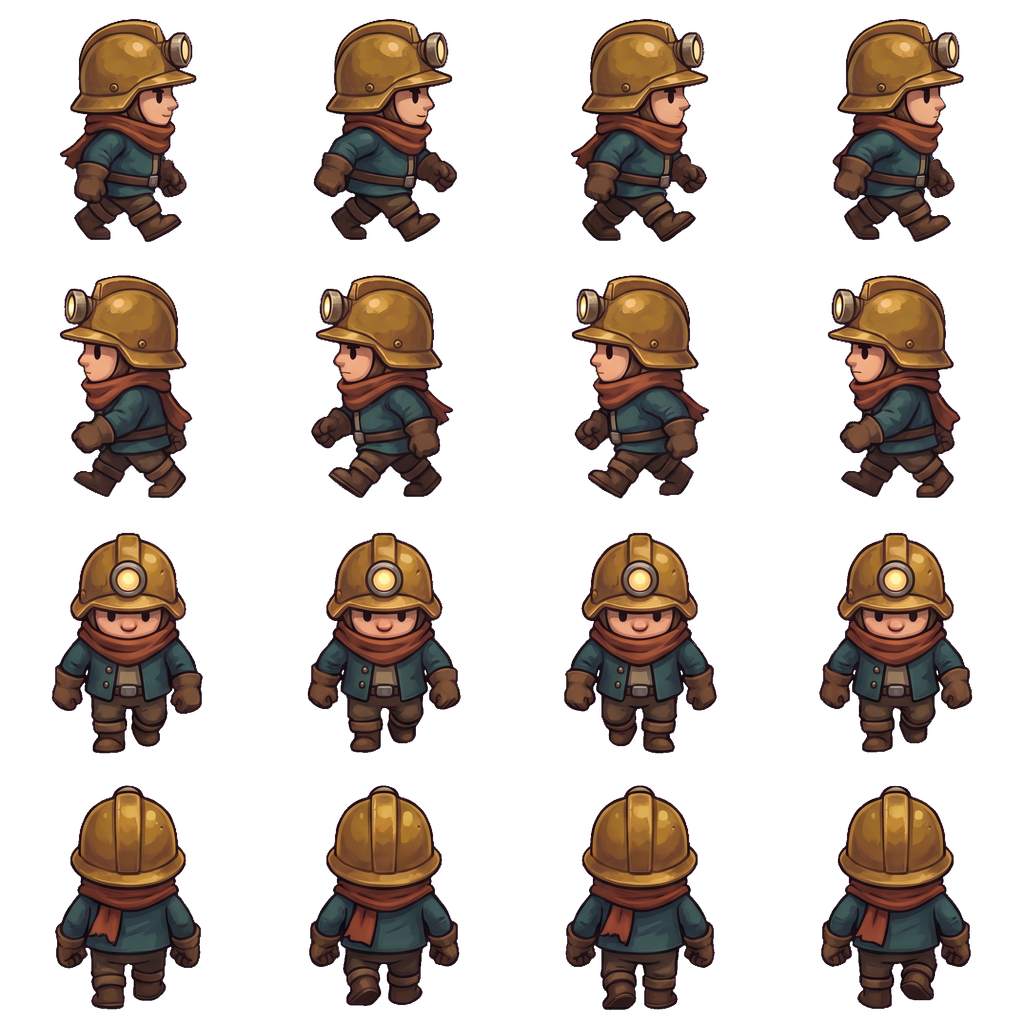
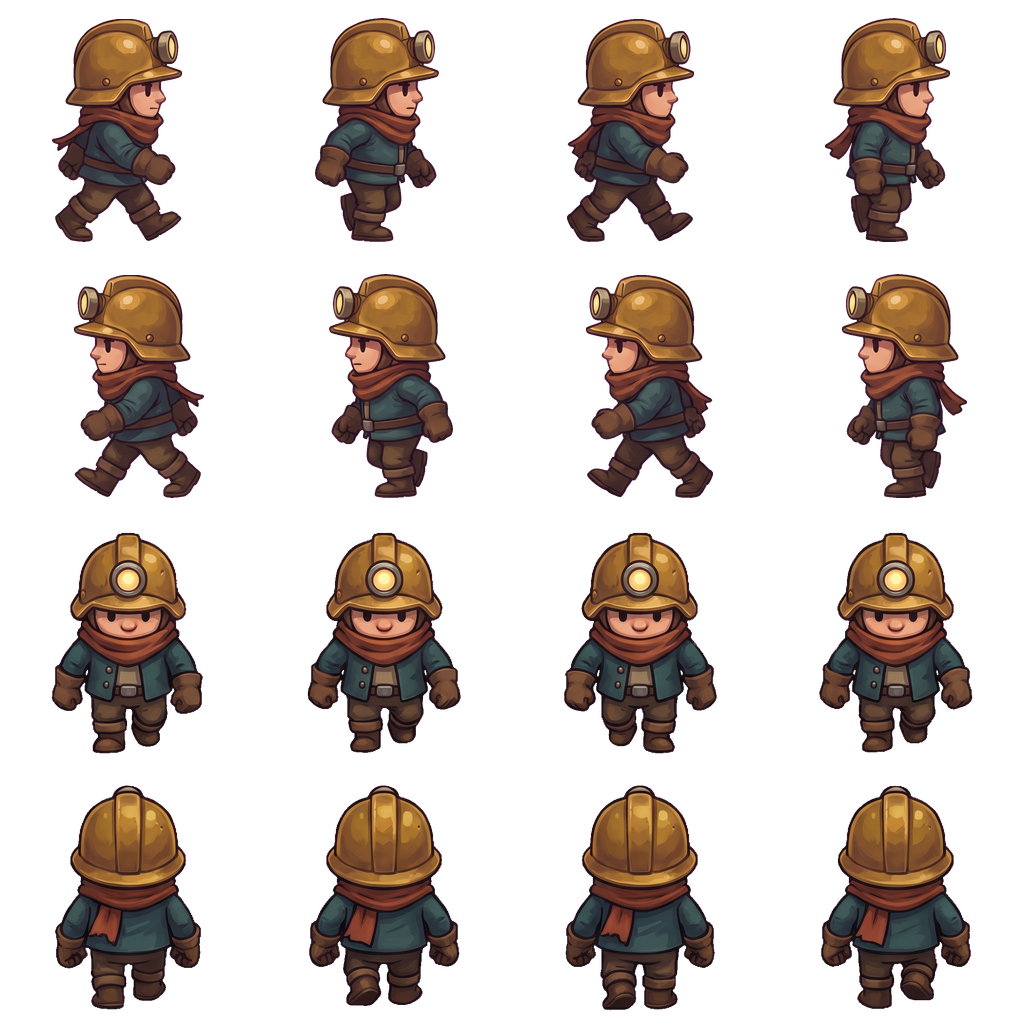
Use selected miner walk A for side-facing animation

diff --git a/src/i18n.ts b/src/i18n.ts
@@ -5,7 +5,7 @@ const english:Record<string,string>={
  'Wertung: Smaragd 1, Diamant 3 Punkte. Schieferkrabbler: 5 Punkte für Zerquetschen oder sicheres Einsperren am Ende. Kristallkrabbler: 10 Punkte für die Umwandlung; sein Diamant zählt beim Einsammeln weitere 3. Gegnerpunkte öffnen keinen Ausgang. Die Zeit entscheidet zuerst, bei Gleichstand die Punktzahl.':'Scoring: emerald 1, diamond 3 points. Slate crawler: 5 points for crushing it or leaving it safely trapped at the end. Crystal crawler: 10 points for transmutation, plus 3 when you collect its diamond. Enemy points do not open exits. Time ranks first, then score breaks a tie.',
  '† Ältere lokale Werte enthalten nur Kristallpunkte. Neue Durchläufe und die Online-Wiederherstellung ergänzen die Gegnerwertung.':'† Older local records contain crystal points only. New runs and online profile recovery include enemy points.',
  'Spielfeld':'Cave','Touchsteuerung':'Touch controls','Nach oben':'Move up','Nach unten':'Move down','Nach links':'Move left','Nach rechts':'Move right','Nebenan graben: halten und Richtung drücken':'Dig beside you: hold and press a direction','Graben':'Dig','halten + Richtung':'hold + direction',
- '/ DIE ALTE MINE':'/ THE OLD MINE','DIE ALTE MINE':'THE OLD MINE','EIN ABENTEUER IN LATHMAR':'AN ADVENTURE IN LATHMAR','Jeder Stein hat sein Gewicht.':'Every stone has weight.','Jeder Schritt seine Folgen.':'Every step has consequences.','Grabe dich durch die alte Mine. Sammle ihre Kristalle.':'Dig through the old mine. Collect its crystals.','Und finde einen Weg zurück ans Licht.':'And find a way back to the light.','Abenteuer fortsetzen':'Continue adventure','In die Mine':'Enter the mine','Die zehn Höhlen':'The ten caves','Einstellungen':'Settings','So wird gespielt':'How to play','Neues Spiel':'New game','Profil & Sicherung':'Profile & backup','Bestzeiten':'Best times','Die Mine wird vorbereitet …':'Preparing the mine …','Ein Höhlenrätsel mit Amiga-Seele.':'A cave puzzle with an Amiga soul.','ZEHN HÖHLEN. EIN ABENTEUER.':'TEN CAVES. ONE ADVENTURE.','DEMO 0.5.1 · GRAFIK & AUDIO MIT RUNWAY ·':'DEMO 0.5.1 · ART & AUDIO WITH RUNWAY ·','PROJEKT':'PROJECT',
+ '/ DIE ALTE MINE':'/ THE OLD MINE','DIE ALTE MINE':'THE OLD MINE','EIN ABENTEUER IN LATHMAR':'AN ADVENTURE IN LATHMAR','Jeder Stein hat sein Gewicht.':'Every stone has weight.','Jeder Schritt seine Folgen.':'Every step has consequences.','Grabe dich durch die alte Mine. Sammle ihre Kristalle.':'Dig through the old mine. Collect its crystals.','Und finde einen Weg zurück ans Licht.':'And find a way back to the light.','Abenteuer fortsetzen':'Continue adventure','In die Mine':'Enter the mine','Die zehn Höhlen':'The ten caves','Einstellungen':'Settings','So wird gespielt':'How to play','Neues Spiel':'New game','Profil & Sicherung':'Profile & backup','Bestzeiten':'Best times','Die Mine wird vorbereitet …':'Preparing the mine …','Ein Höhlenrätsel mit Amiga-Seele.':'A cave puzzle with an Amiga soul.','ZEHN HÖHLEN. EIN ABENTEUER.':'TEN CAVES. ONE ADVENTURE.','DEMO 0.5.2 · GRAFIK & AUDIO MIT RUNWAY ·':'DEMO 0.5.2 · ART & AUDIO WITH RUNWAY ·','PROJEKT':'PROJECT',
  'DEIN WEG DURCH DEN BERG':'YOUR WAY THROUGH THE MOUNTAIN','← Zurück':'← Back','Zurück':'Back','Übungsmodus ohne Zeitlimit':'Practice without a time limit','Erfolge öffnen die nächste Höhle. Übungszeiten und Normalspiel bleiben getrennt.':'Completing a cave unlocks the next. Practice and timed records stay separate.','Ohne Zeitlimit':'No time limit','Noch unerforscht':'Unexplored','Erst die vorherige Höhle abschließen':'Complete the previous cave first','Erkunden':'Explore','Lösung ansehen':'Watch solution','Karte überarbeitet · neu entdecken':'Revised cave · explore it again',
  'DEIN ABENTEUER BLEIBT ERHALTEN':'KEEP YOUR ADVENTURE SAFE','Dein Name':'Your name','Spielername':'Player name','Zum Beispiel: Minenwanderer':'For example: Cave Wanderer','2–24 Zeichen: Buchstaben, Zahlen, Leerzeichen, _ und -. Keine E-Mail nötig. Dein Name und bestätigte Zeiten sind in der öffentlichen Rangliste sichtbar, sobald du ein Online-Profil anlegst.':'Use 2–24 characters: letters, numbers, spaces, _ and -. No email required. Once you create an online profile, your name and verified times are visible on the public leaderboard.','Namen speichern':'Save name','Online-Profil anlegen':'Create online profile','Wiederherstellungscode':'Recovery code','Jetzt abgleichen':'Sync now','Dein geheimer Wiederherstellungscode':'Your secret recovery code','Bewahre ihn privat auf. Wer diesen Code besitzt, kann dein Profil verwenden.':'Keep this private. Anyone with this code can use your profile.','Code als Datei sichern':'Save code to file','Sicher ist sicher':'Keep a backup','Das Spiel speichert automatisch und hält eine zweite lokale Kopie bereit. Exportiere zusätzlich eine Datei, bevor du Browserdaten löschst oder das Gerät wechselst.':'The game saves automatically and keeps a second local copy. Export a backup file before clearing browser data or moving to another device.','Spielstand exportieren':'Export save','Sicherung importieren':'Import backup','Importe übernehmen persönliche Erfolge, aber keine öffentlichen Rekorde. Online-Profile und Codes bleiben getrennt.':'Imports restore personal progress, but do not submit public records. Online profiles and recovery codes stay separate.','Profil wiederherstellen':'Recover profile','ID.geheimer-Code':'ID.secret-code','Profil laden':'Recover profile','Auf den Home-Bildschirm':'Add to your home screen','Android: im Browsermenü „App installieren“ oder „Zum Startbildschirm“. iPhone/iPad: Teilen → „Zum Home-Bildschirm“.':'Android: choose “Install app” or “Add to home screen” in the browser menu. iPhone/iPad: Share → “Add to Home Screen”.','Nach der ersten vollständigen Installation sind alle zehn Höhlen offline spielbar. Bestzeiten werden beim nächsten Online-Start abgeglichen. Updates werden nach dem Schließen aller Spielfenster übernommen.':'After the first full download, all ten caves can be played offline. Best times sync at the next online start. Updates take effect after you close all game windows.',
  'Höhle':'Cave','Platz':'Rank','Name':'Name','Zeit':'Time','Die kürzere Zeit gewinnt. Bei gleicher Zeit entscheidet die höhere Punktzahl; stimmen beide überein, teilen sich die Spieler den Platz. Übung, Lösungswiedergaben und importierte Bestzeiten zählen nicht.':'Faster times rank first. At equal time, the higher score wins. Equal time and score share a rank. Practice, solution replays and imported records do not count.',

diff --git a/artifacts/miner-walk-review/index.html b/artifacts/miner-walk-review/index.html
@@ -26,13 +26,13 @@
 </div>
 <div class="note"><strong>Worauf achten?</strong> Ist der Schritt schon oben in kleiner Darstellung erkennbar? Wirkt B zu hüpfend? Passt A besser zur Hackenanimation? Mit „Einzelbild weiter“ kannst du die Posen prüfen. Die neuen Kontaktposen 1 und 3 ähneln sich noch stark; dies sind Entwürfe, keine fertige anatomisch saubere Schrittfolge.</div>
 <p class="muted">Die optionale Fahrt zeigt die bisherige Spielgeschwindigkeit: 64 Pixel pro 100 ms. Die Gänge hier sind nur eine Darstellung, keine neue Spielsimulation. Links werden die neuen Entwürfe gespiegelt; Vorder- und Rückansicht werden nach der Auswahl separat entworfen.</p>
-<p class="foot">Neue Grafiken: Runway · 20 Credits für beide Entwürfe zusammen · Projektstand 180 / 1.000 Credits. Die öffentlichen Spielgrafiken wurden nicht ersetzt. <a href="../../docs/KAPITEL-2-MECHANIKEN.md">Notizen zu Käfern und Steinspender</a></p>
+<p class="foot">Neue Grafiken: Runway · 20 Credits für beide Entwürfe zusammen · Projektstand 180 / 1.000 Credits. Entwurf A wurde ausgewählt und wird ab Version 0.5.2 für die seitlichen Laufposen verwendet. <a href="../../docs/KAPITEL-2-MECHANIKEN.md">Notizen zu Käfern und Steinspender</a></p>
 <script>
 const canvases=[...document.querySelectorAll('canvas')];
 const controls={speed:document.querySelector('#speed'),direction:document.querySelector('#direction'),travel:document.querySelector('#travel'),play:document.querySelector('#play'),step:document.querySelector('#step')};
 const reduced=matchMedia('(prefers-reduced-motion: reduce)').matches;
 let playing=!reduced,phase=0,travel=0,last=performance.now(),ready=false;
-const sources={old:'../../public/assets/hero.png',a:'walk-a.png',b:'walk-b.png',dig:'../../public/assets/digging.png'};
+const sources={old:'original-hero.png',a:'walk-a.png',b:'walk-b.png',dig:'../../public/assets/digging.png'};
 const images={};
 function playLabel(){controls.play.textContent=playing?'Pause':'Abspielen';}
 playLabel();

diff --git a/src/main.ts b/src/main.ts
@@ -39,7 +39,7 @@ function resize():void{if(ready&&stage.clientWidth&&stage.clientHeight)scene.res
 window.addEventListener('resize',resize);
 function button(action:string,label:string,classes='',extra=''):string{return `<button class="${classes}" data-action="${action}" ${extra}>${label}</button>`;}
 function brand():string{return '<div class="eyebrow"><span class="gem-mark"></span> LATHMAR: EMERALD HOLLOWS <span class="muted">/ DIE ALTE MINE</span></div>';}
-function footer():string{return '<footer><div class="footer-campaign"><span>ZEHN HÖHLEN. EIN ABENTEUER.</span><small>Geplante Vollversion: 120 Level · 100 Hauptlevel + 20 Geheimlevel</small></div><span class="footer-production">DEMO 0.5.1 · GRAFIK & AUDIO MIT RUNWAY · <a href="https://github.com/michaelingokahler-mordor/Emerald-Hollows" target="_blank" rel="noopener">PROJEKT</a></span></footer>';}
+function footer():string{return '<footer><div class="footer-campaign"><span>ZEHN HÖHLEN. EIN ABENTEUER.</span><small>Geplante Vollversion: 120 Level · 100 Hauptlevel + 20 Geheimlevel</small></div><span class="footer-production">DEMO 0.5.2 · GRAFIK & AUDIO MIT RUNWAY · <a href="https://github.com/michaelingokahler-mordor/Emerald-Hollows" target="_blank" rel="noopener">PROJEKT</a></span></footer>';}
 function start(i:number,solution?:Replay):void{
   if(!ready||!LEVELS[i]||!unlocked().has(LEVELS[i].id))return;index=i;replay=solution;replayCursor=0;
   simulation=new Simulation(LEVELS[i],solution?false:save.practice);

diff --git a/README.md b/README.md
@@ -84,10 +84,10 @@ The project uses strict TypeScript, Phaser 4.2.1, Vite, and Vitest with pinned d
 | `artifacts` | Runway source assets and production records |
 | `tools` | Asset processing, packaging, and verification scripts |
 
-### Current presentation update — 0.5.1
+### Current presentation update — 0.5.2
 
 A green-and-red pseudodragon accompanies objectives and hints. The title screen has a more readable footer and identifies the planned 120-level full game. Walking and digging poses now change every **240 ms**, giving a four-pose cycle of **0.96 seconds**. Movement and simulation retain their 100 ms tick, so this visual change does not alter routes or records.
 
-The previous 180 ms setting was an initial design choice, not a measured ideal. The existing side-facing sprites have weak leg differences; slower playback alone does not turn them into a clearly articulated walk cycle. Improved poses remain a possible art refinement.
+The previous 180 ms setting was an initial design choice, not a measured ideal. Version 0.5.2 uses the selected walk variant A for the right-facing poses and mirrors it for the left-facing poses. The new frames alternate between an extended and a bent leg silhouette. Front/back poses and the pickaxe animation are unchanged; the two contact poses still look similar and may receive further refinement.
 
 See the [validation report (German)](docs/PRUEFBERICHT.md) for completed checks and their limits, including the distinction between browser emulation and physical mobile-device testing. The [leaderboard protection notes (German)](docs/RANGLISTENSCHUTZ.md) document optional future measures.

diff --git a/docs/MEDIEN.md b/docs/MEDIEN.md
@@ -65,3 +65,9 @@ Zwei seitliche Laufentwürfe wurden als gemeinsamer 4×2-Spritebogen mit dem vor
 - Browserprüfung mit `tools/browser-miner-review.js`: Bilder geladen, Pause, Einzelbild, Geschwindigkeit, Richtungswechsel, Bewegungsvorschau; 64-Pixel-Darstellung bei Canvasbreite 256; keine horizontale Überbreite bei 390 × 844; reduzierte Bewegung startet pausiert. Screenshots liegen unter `output/playwright/miner-review-*.png`.
 
 Öffentliche Spielgrafiken, Hackenanimation, Bewegungstempo und Replays sind unverändert. Die Auswahl und das subjektive Bewegungsgefühl werden mit dem Nutzer beurteilt; eine neue vollständige Spielprüfung war für diese getrennte Vorschau nicht erforderlich.
+
+## Auswahl und Integration 0.5.2
+
+Der Nutzer hat Entwurf A ausgewählt. Seine vier seitlichen Laufposen werden rechts unverändert und links jeweils gespiegelt verwendet. Die Bilddauer bleibt 240 ms. Vorder- und Rückansicht bleiben aus dem bisherigen Miner-Spritebogen erhalten; die Hackenanimation bleibt bytegleich. Die ursprüngliche Grafik ist zusätzlich als `artifacts/miner-walk-review/original-hero.png` für den Vergleich gesichert.
+
+`tools/prepare-selected-miner.mjs` setzt die ausgewählte Folge in den Spielatlas ein und wird auch am Ende von `npm run assets` aufgerufen. Dabei werden RGBA-Pixel direkt kopiert, sodass transparente Ränder und die bewahrten Ansichten keine Rundungsänderungen durch erneute Alpha-Komposition erhalten. Nachweis: `artifacts/miner-selected-verification.json`. Keine neue Generierung, weiterhin 180 / 1.000 Runway-Credits.

diff --git a/docs/ENTWICKLUNGSPLAN.md b/docs/ENTWICKLUNGSPLAN.md
@@ -50,7 +50,7 @@ Musik erhält Kapitelthemen und eine dezente Gefahrenschicht. Die Demo verwendet
 
 ## Kosten und nächste Abnahmen
 
-Runway-Obergrenze bleibt 1.000 Credits inklusive Fehlversuchen. Bisher 180: ursprüngliche Medien 115, Musikrunde 24 einschließlich einer nicht herunterladbaren Ersatzproduktion, Pseudodrache 21, zwei neue seitliche Laufproben 20. Für 0.5.1 selbst wurden keine Medien generiert; die Laufproben entstanden danach und sind noch nicht im Spiel integriert. Kein automatischer bezahlter Hostingwechsel. Workers Free wurde am 18.10.2026 im Konto bestätigt.
+Runway-Obergrenze bleibt 1.000 Credits inklusive Fehlversuchen. Bisher 180: ursprüngliche Medien 115, Musikrunde 24 einschließlich einer nicht herunterladbaren Ersatzproduktion, Pseudodrache 21, zwei neue seitliche Laufproben 20. Für 0.5.1 selbst wurden keine Medien generiert; die Laufproben entstanden danach. Der Nutzer wählte A; dessen seitliche Posen sind ab 0.5.2 integriert. Kein automatischer bezahlter Hostingwechsel. Workers Free wurde am 18.10.2026 im Konto bestätigt.
 
 Der Nutzer hat am 18.10.2026 bestätigt, dass der öffentliche Touchmodus funktioniert; Gerät und Betriebssystem wurden nicht angegeben. Vor dem nächsten Kapitel: Feedback zu den überarbeiteten Rätseln, Hörprobe und gezielte Prüfung der Installation auf Android und iPhone/iPad. Browseremulation ist kein Gerätetest. Dann jeweils ein neues Kapitel mitsamt Regeln, Karten, Medien und Replays entwickeln.
 

diff --git a/docs/PRUEFBERICHT.md b/docs/PRUEFBERICHT.md
@@ -1,3 +1,16 @@
+# Lathmar: Emerald Hollows 0.5.2 – ausgewählte Laufanimation A
+
+Stand: 18. Oktober 2026. Vom Nutzer ausgewählter Entwurf A für seitliche Laufposen integriert. Links wird jede Rechts-Pose gespiegelt, ohne die Bildfolge umzudrehen. 240 ms pro Pose bleiben erhalten.
+
+- Pixelprüfung: alle vier Rechtsposen entsprechen A, alle vier Linksposen dessen Spiegelung. Vorder-/Rückansicht pixelgleich zum bisherigen Atlas; Hackenanimation bytegleich. Nachweis: `artifacts/miner-selected-verification.json`.
+- TypeScript und Produktionsbuild erfolgreich.
+- Chrome 1280 × 720: tatsächliche Posenwechsel mit 249/234 ms gemessen; Pause friert die Phase ein. Linksbewegung mit Frames 4–7 geprüft, Spielansicht aufgenommen.
+- Keine Level-, Regel-, Server- oder Punkteänderung. Die weitergehenden Prüfungen unten sind frühere Ergebnisse. Keine neue vollständige Geräteprüfung oder Mediengenerierung.
+
+Die Veröffentlichung erhält den Dateivergleich `release/deployment-verification-v0.5.2.json`.
+
+---
+
 # Lathmar: Emerald Hollows 0.5.1 – Prüfbericht
 
 Stand: 18. Oktober 2026. Lauf- und Grabeposen wechseln jetzt alle 240 ms (vier Posen: 0,96 Sekunden). Der Wert 180 ms in 0.5 war eine gestalterische Testeinstellung, kein empirisch ermitteltes Optimum. Die Sichtung des vorhandenen Spritebogens zeigt insbesondere seitlich zu ähnliche Beinposen; 240 ms verbessert die Betrachtungszeit, ersetzt aber keine neu gezeichnete Schrittfolge.
